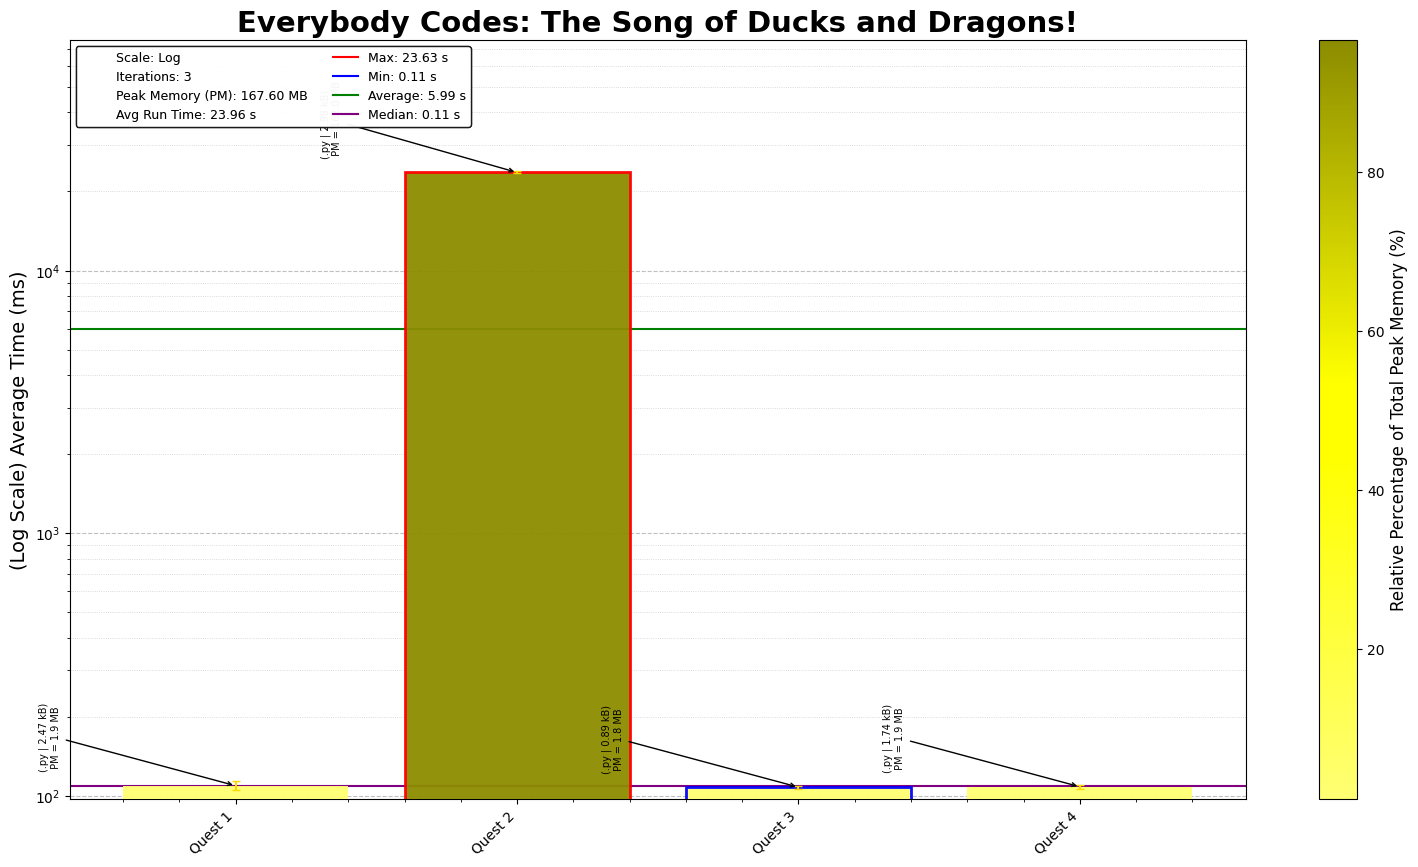
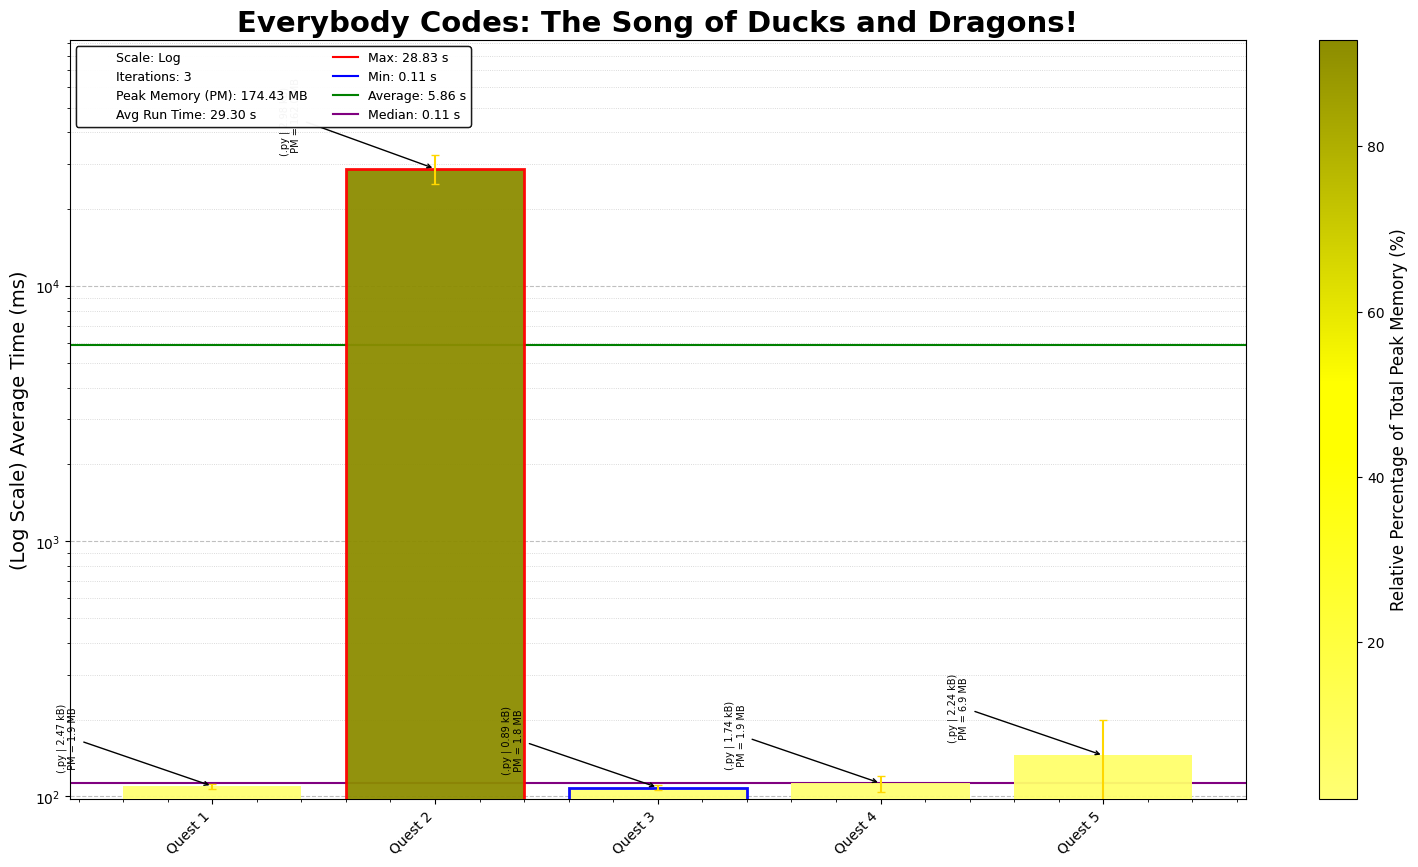
EC 2025 Quest 05: Fishbone Order

diff --git a/2025/05/2025Day05.py b/2025/05/2025Day05.py
@@ -1,0 +1,69 @@
+"""Everybody Codes - Quest 5, Year 2025
+Solution Started: November 7, 2025
+Puzzle Link: https://everybody.codes/event/20252/quests/5
+Solution by: Abbas Moosajee
+Brief: [Fishbone Order]"""
+
+#!/usr/bin/env python3
+from pathlib import Path
+
+# List of input file names
+input_files = ["Day05_input_p1.txt", "Day05_input_p2.txt", "Day05_input_p3.txt"]
+
+# Read and split the input data into individual lists
+input_data_p1, input_data_p2, input_data_p3 = [
+    open(Path(__file__).parent / file).read().strip().split('\n')
+    for file in input_files
+]
+
+def build_spine(input_data: str):
+    sword_id, all_bones = input_data.split(":")
+    all_bones = list(map(int, all_bones.split(",")))
+
+    spine = []
+    spine.append({0: all_bones[0]})
+
+    for bone in all_bones[1:]:
+        placed = False
+
+        # Try each segment in order from top to bottom
+        for segment in spine:
+            pivot_dir = segment[0]
+
+            if bone < pivot_dir:
+                if -1 not in segment:
+                    segment[-1] = bone
+                    placed = True
+                    break
+            elif bone > pivot_dir:
+                if 1 not in segment:
+                    segment[1] = bone
+                    placed = True
+                    break
+            else:
+                continue
+        if not placed:
+            spine.append({0: bone})
+    conc_spine = {}
+    for seg, data in enumerate(spine):
+        conc_spine[seg] = int(f"{data.get(-1, "")}{data[0]}{data.get(1, "")}")
+    return int("".join(str(seg[0]) for seg in spine)), conc_spine
+
+def build_armory(input_list):
+    armory = []
+    for id, data in enumerate(input_list):
+        sword_quality = build_spine(data)[0]
+        armory.append(sword_quality)
+    return max(armory) - min(armory)
+
+def identify_swords(data):
+    sword_list = []
+    for id, numdata in enumerate(data, 1):
+        spine, fishbone = build_spine(numdata)
+        sword_list.append((spine, list(fishbone.values()), id))
+    sword_list.sort(reverse=True)
+    return sum(i*n[2] for i,n in enumerate(sword_list, 1))
+
+print("Quest 05, P1:", build_spine(input_data_p1[0])[0])
+print("Quest 05, P2:", build_armory(input_data_p2))
+print("Quest 05, P3:", identify_swords(input_data_p3))

diff --git a/2025/README_2025.md b/2025/README_2025.md
@@ -10,3 +10,4 @@ This repository contains coding solutions for the 2025 Everybody Codes. Each day
 2. **Day 2 - From Complex to Clarity**: Vector Math, fairly simple execution once you get over the hurdle of integer and div math.
 3. **Day 3 - The Deepest Fit**: Why write your own functions, when python can do it for you. LEARN PYTHON Kids
 4. **Day 4 - Teeth of the Wind**: MATH IS FUN
+5. **Day 5 - Fishbone Order**: Interesting way to build a tree fairly simple overall, but figuring out how to skip over segments took a bit of time.
